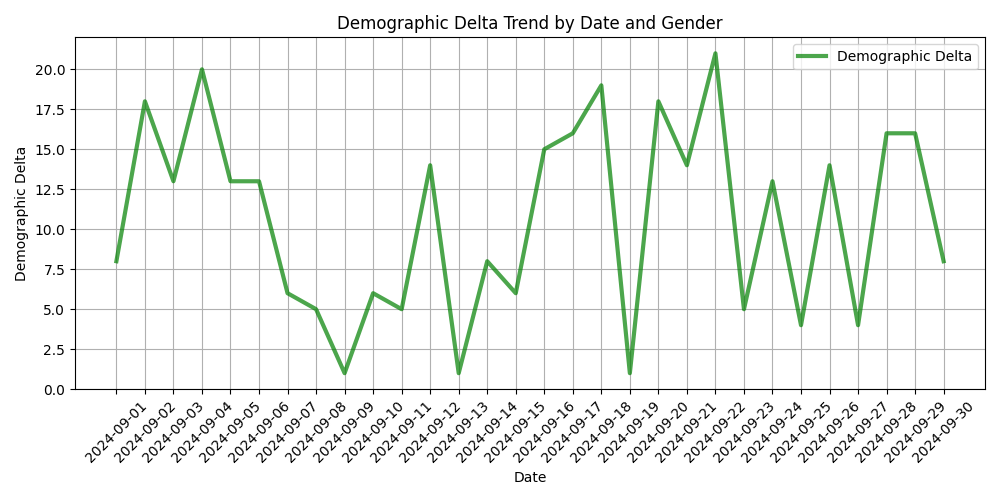
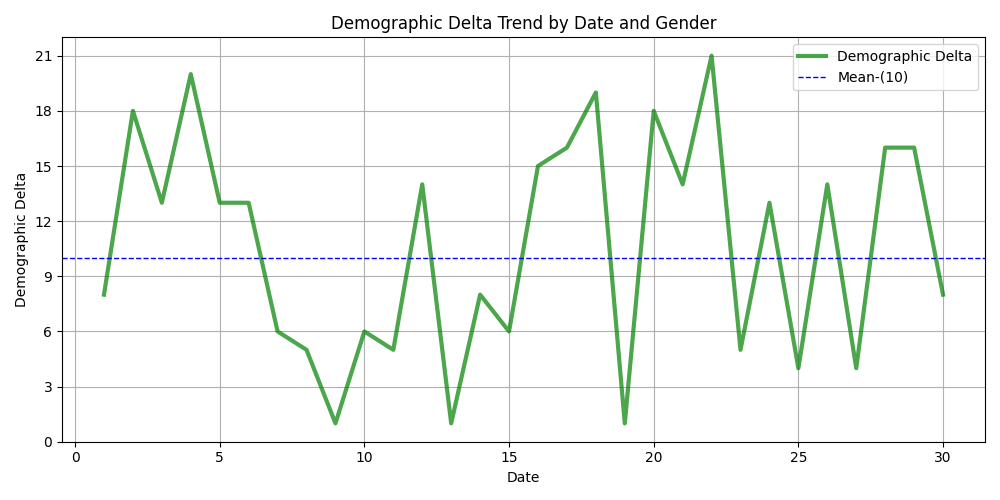
Added about page, some tweaks in graphs

diff --git a/client/templates/Client/about.html b/client/templates/Client/about.html
@@ -1,0 +1,75 @@
+{% extends 'Client/base.html' %}
+{% block title %}Tracking Talent AI Effectiveness{% endblock %}
+{% block style %}
+    <style>
+        body {
+            font-family: Arial, sans-serif;
+            background-color: whitesmoke;
+            padding: 20px;
+            line-height: 1.6;
+        }
+        h1, h2 {
+            font-weight: bold;
+        }
+        .section {
+            margin-top: 20px;
+        }
+        .icon-text {
+            display: flex;
+            align-items: center;
+            margin-top: 10px;
+        }
+        .icon {
+            font-size: 24px;
+            margin-right: 10px;
+        }
+        ul {
+            list-style-type: disc;
+            margin-left: 40px;
+        }
+    </style>
+{% endblock %}
+
+{% block content %}
+    <h1>Tracking Talent AI Effectiveness: Why now?</h1>
+
+    <p>With the increasing adoption of AI across enterprise use-cases, end-users have an urgent need to meaningfully assess the effectiveness of the enterprise Machine Learning models.</p>
+    
+    <p>Effectively measuring the accuracy and precision of AI products is critical to ensure the <strong>Reliability</strong>, <strong>Scalability</strong>, and <strong>Safety</strong> of Enterprise AI initiatives.</p>
+    
+    <p>This assessment helps uncover model performance issues, optimize resource use, and ensure compliance with regulatory standards, all while minimizing operational risks.</p>
+
+    <div class="section">
+        <div class="icon-text">
+            <span class="icon">🔒</span>
+            <h2>Reliability</h2>
+        </div>
+        <ul>
+            <li>It is imperative for Enterprise AI Systems to be consistent in their insights.</li>
+            <li>hrness.ai tracks model performance overtime and provides proactive alerts when the model is beginning to decay.</li>
+        </ul>
+    </div>
+
+    <div class="section">
+        <div class="icon-text">
+            <span class="icon">🔄</span>
+            <h2>Scalability</h2>
+        </div>
+        <ul>
+            <li>In addition to high level metrics, hrness.ai provides Drill Down metrics indicative of the specific parameters.</li>
+            <li>These metrics help organizations expedite Root Cause Analysis and prepare for scale.</li>
+        </ul>
+    </div>
+
+    <div class="section">
+        <div class="icon-text">
+            <span class="icon">🛡</span>
+            <h2>Safety</h2>
+        </div>
+        <ul>
+            <li>In addition to operational metrics like Accuracy, it is critical to measure Bias & Unfairness - arising out of a sub-optimal training process.</li>
+            <li>By reporting these metrics, hrness.ai helps enterprise leaders pre-emptively identify modelling issues adversely affecting specific groups.</li>
+        </ul>
+    </div>
+
+{% endblock %}

diff --git a/client/templates/Client/modelInclusivity.html b/client/templates/Client/modelInclusivity.html
@@ -1,11 +1,11 @@
 {% extends 'Client/report_base.html' %}
 {% load custom_filters %}
-{% block title %}Fairness and Bias{% endblock %}
+{% block title %}Model Inclusivity{% endblock %}
 {% block content %}
 <div class="container mt-5">
     <!-- Page Heading -->
     <div class="text-center mb-4">
-        <h1 class="display-4 font-weight-bold">Fairness and Bias</h1>
+        <h1 class="display-4 font-weight-bold">Model Inclusivity</h1>
     </div>
 
     <div class="alert alert-info" role="alert">
@@ -44,6 +44,12 @@
         should not be any).
         2. Check for unbalanced data corresponding to these features in the
         training data
+    </div>
+
+    <div class="alert alert-success" role="alert">
+        Among Men and Women, the higher rejection ratio was experienced by <strong>{{higher_dp_gender}}</strong> which was <strong>{{gender_dp_value}}%</strong> <br>
+        Among all locations, the higher rejection ratio was experienced by <strong>{{higher_dp_location}}</strong> which was <strong>{{location_dp_value}}%</strong> <br>
+        Week on week, there has been an actual <strong>{% if dp_diff > 0 %}increase{% else %}decrease{% endif %}</strong> of <strong>{{dp_diff|abs_filter}}%</strong> in gender demographic disparity
     </div>
 
 </div>

diff --git a/client/templates/Client/base.html b/client/templates/Client/base.html
@@ -17,7 +17,7 @@
     <nav class="navbar navbar-expand-lg navbar-dark bg-dark">
         <div class="container-fluid">
             <!-- Logo -->
-            <a class="navbar-brand" href="#">
+            <a class="navbar-brand" href="/">
                 <!-- <img src="logo.png" alt="Logo" width="30" height="24" class="d-inline-block align-text-top"> -->
                 hrness.ai
             </a>
@@ -36,9 +36,9 @@
                     <li class="nav-item">
                         <a class="nav-link {% if request.path == '/about/' %}active{% endif %}" href="/about/">About</a>
                     </li>
-                    <li class="nav-item">
+                    <!-- <li class="nav-item">
                         <a class="nav-link {% if request.path == '/help/' %}active{% endif %}" href="/help/">Help</a>
-                    </li>
+                    </li> -->
                     <li class="nav-item">
                         <form action="{% url 'Client:logout' %}" method="post" class="d-inline">
                             {% csrf_token %}

diff --git a/client/templates/Client/overallAccuracy.html b/client/templates/Client/overallAccuracy.html
@@ -81,8 +81,15 @@
         </div>
 
         <div class="alert alert-info" role="alert">
-            <b><h4>Interpretation:</h4></b> 
-            This shows how accurately the model is classifying whether a candidate is genuine or suspect. 
+            <b><h4>Interpretation:</h4></b>
+            <br>
+            This is a good starting point to start tracking the model effectiveness and
+            can be easily used by leadership to check if the model is decaying or if
+            there is an issue with the data in any speci c Location, Gender or Age
+            Group. <br><br>
+            Based on the above observation - the organization will need to ag this
+            data to the AI Service provider who will need to do a feature-level drill
+            down of the model to see why the model performance is slipping.
         </div>
         
         <div class="alert alert-{% if dates_with_low_accuracy %}warning{% else %}success{%endif%}" role="alert">

diff --git a/client/templates/Client/report_base.html b/client/templates/Client/report_base.html
@@ -34,9 +34,9 @@
                 {% csrf_token %}
                 <input type="submit" value="Model Accuracy" class="btn btn-dark">
             </form>
-            <form action="{% url 'Client:fairnessAndBias' %}" method="post" class="d-grid mb-2">
+            <form action="{% url 'Client:modelInclusivity' %}" method="post" class="d-grid mb-2">
                 {% csrf_token %}
-                <input type="submit" value="Fairness and Bias" class="btn btn-dark">
+                <input type="submit" value="Model Inclusivity" class="btn btn-dark">
             </form>
         </div>
     </div>

diff --git a/client/views.py b/client/views.py
@@ -5,7 +5,7 @@ from .models import Client, ClientUser
 from django.contrib.auth.decorators import login_required
 from django.contrib.auth import authenticate, login
 from django.shortcuts import redirect
-from .utils import generateDateWisePivot, generateLocationWisePivot, generateGenderWisePivot, findAccuracy, findTotal, findTNR
+from .utils import generateDateWisePivot, generateLocationWisePivot, generateGenderWisePivot, findAccuracy, findTotal, findTNR, findDemographicParity
 import matplotlib
 import matplotlib.pyplot as plt
 matplotlib.use("Agg") 
@@ -41,6 +41,9 @@ def overallAccuracyView(request):
         client_id = user.client.id
         engagement_id = request.POST.get('engagement_id')
 
+        if engagement_id is None:
+            engagement_id = request.session.get('engagement_id')
+
         request.session['engagement_id'] = engagement_id
 
         dateWisePivot = generateDateWisePivot(result_table_name = f'Result-{client_id}-{engagement_id}')
@@ -72,19 +75,20 @@ def overallAccuracyView(request):
         overall_accuracy = findAccuracy(overall_count)
         print(overall_accuracy)
 
-        dates = [date.day for date in dateWisePivot]
+        dates = [date for date in dateWisePivot]
+        graph_dates = [date.day for date in dateWisePivot]
 
         accuracies_mean = mean(accuracies)
         lower_limit = 40
         
         plt.figure(figsize=(10, 5))
 
-        plt.plot(dates, accuracies, label='Accuracy', color='blue', linestyle='-', linewidth=3, alpha=0.7)
+        plt.plot(graph_dates, accuracies, label='Accuracy', color='blue', linestyle='-', linewidth=3, alpha=0.7)
 
         dates_with_low_accuracy = []
         for date, accuracy in zip(dates, accuracies):
             if accuracy < lower_limit:
-                plt.plot(date, accuracy, 'ro')
+                plt.plot(date.day, accuracy, 'ro')
                 dates_with_low_accuracy.append(date)
 
         print(type(on_date))
@@ -121,6 +125,7 @@ def modelAccuracyView(request):
             location_table[city] = {'RPN':locationWisePivot[city]['Risk Priority Number']}
 
         dates = [date for date in dateWisePivot]
+        graph_dates = [date.day for date in dates]
 
         total_tn, total_fp = 0, 0
         for date in dates:
@@ -138,26 +143,23 @@ def modelAccuracyView(request):
         usl, lsl = tnr_mean + (2 * tnr_std), tnr_mean - (2 * tnr_std)
 
         plt.figure(figsize=(10, 5))
-        plt.plot(dates, tnr_men, label='Men', color='blue', linestyle='-', alpha=0.7)
-        plt.plot(dates, tnr_women, label='Women', color='red', linestyle='-', alpha=0.7)
-        tnr_outliers_male = []
+        plt.plot(graph_dates, tnr_men, label='Men', color='blue', linestyle='-', alpha=0.7)
+        plt.plot(graph_dates, tnr_women, label='Women', color='red', linestyle='-', alpha=0.7)
+        
         for date, tnr in zip(dates, tnr_men):
             if tnr < lsl or tnr > usl:
-                plt.plot(date, tnr, 'bo')
-                tnr_outliers_male.append(date)
+                plt.plot(date.day, tnr, 'bo')
 
-        tnr_outliers_female = []
         for date, tnr in zip(dates, tnr_women):
             if tnr < lsl or tnr > usl:
-                plt.plot(date, tnr, 'ro')
-                tnr_outliers_female.append(date)
+                plt.plot(date.day, tnr, 'ro')
+
         plt.xlabel('Date')
         plt.ylabel('Specificity')
         plt.title('Specificity Trend by Date and Gender')
         plt.grid(True)
         plt.axhline(y=usl, color="r", linestyle="--", linewidth=1, label=f"Upper Limit ({usl})")
         plt.axhline(y=lsl, color="g", linestyle="--", linewidth=1, label=f"Lower Limit ({lsl})")
-        plt.xticks(rotation=45)
         plt.tight_layout()
         plt.legend()
 
@@ -168,20 +170,40 @@ def modelAccuracyView(request):
         return render(request, 'Client/modelAccuracy.html', {'overall_tnr':overall_tnr, "graph":'media/dateGenderSpecifictyGraph.png', 'on_date':dates[-1], 'location_table':location_table})
     return Http404()
 
-def fairnessView(request):
+def modelInclusivityView(request):
     if request.method == "POST":
         user = request.user
         client_id = user.client.id
         engagement_id = request.session.get('engagement_id')
         genderWisePivot = generateGenderWisePivot(client_table_name = f'Client Data-{client_id}-{engagement_id}', result_table_name = f'Result-{client_id}-{engagement_id}', primary_key = 'Candidate ID')
-        dates = [date for date in genderWisePivot['Male']]
-        dpd = [abs(genderWisePivot['Male'][date]['Demographic Parity'] - genderWisePivot['Female'][date]['Demographic Parity']) for date in dates]
+        locationWisePivot = generateLocationWisePivot(client_table_name = f'Client Data-{client_id}-{engagement_id}', result_table_name = f'Result-{client_id}-{engagement_id}', primary_key = 'Candidate ID')
+        location_wise_dp = [(findDemographicParity(locationWisePivot[location]), location) for location in locationWisePivot]
 
+        higher_dp_location = max(location_wise_dp, key=lambda x : x[0])
+
+        dates = [date for date in genderWisePivot['Male']]
+
+        genderwise_total_obs = {'Male':{'True Positive':0, 'True Negative':0, 'False Positive':0, 'False Negative':0}, 'Female':{'True Positive':0, 'True Negative':0, 'False Positive':0, 'False Negative':0}}
+        dpd = []
+
+        for date in dates:
+            dpd.append(abs(genderWisePivot['Male'][date]['Demographic Parity'] - genderWisePivot['Female'][date]['Demographic Parity']))
+            for gender in genderwise_total_obs:
+                for obs in genderwise_total_obs[gender]:
+                    genderwise_total_obs[gender][obs] += genderWisePivot[gender][date][obs]
+        
+        gender_dp = [(findDemographicParity(genderwise_total_obs[gender]), gender) for gender in genderwise_total_obs]
+        higher_dp_gender = max(gender_dp, key = lambda x : x[0])
+
+        dp_diff = dpd[-1] - dpd[-8]
+        dpd_mean = int(mean(dpd))
+            
         plt.figure(figsize=(10, 5))
-        plt.plot(dates, dpd, label='Demographic Delta', color='green', linestyle='-',linewidth=3, alpha=0.7)
-        plt.xticks(rotation=45)
+        plt.plot([date.day for date in dates], dpd, label='Demographic Delta', color='green', linestyle='-',linewidth=3, alpha=0.7)
+        plt.gca().yaxis.set_major_locator(plt.MaxNLocator(integer=True))
         plt.xlabel('Date')
         plt.ylabel('Demographic Delta')
+        plt.axhline(y=dpd_mean, color="b", linestyle="--", linewidth=1, label=f"Mean-({dpd_mean})")
         plt.title('Demographic Delta Trend by Date and Gender')
         plt.tight_layout()
         plt.legend()
@@ -192,9 +214,12 @@ def fairnessView(request):
         plt.savefig(file_path, format="png", dpi=100)
         plt.close()
 
-        return render(request, 'Client/fairness.html', {'graph':'media/dateGenderDemographicDeltaGraph.png'})
+        return render(request, 'Client/modelInclusivity.html', {'graph':'media/dateGenderDemographicDeltaGraph.png', 'higher_dp_location':higher_dp_location[1], 'location_dp_value':higher_dp_location[0], 'higher_dp_gender':higher_dp_gender[1], 'gender_dp_value':higher_dp_gender[0], 'dp_diff':dp_diff })
     return Http404()
 
+
+def aboutView(request):
+    return render(request, 'Client/about.html')
 
 class ClientLogoutView(LogoutView):
     next_page = reverse_lazy('Client:home')

diff --git a/client/urls.py b/client/urls.py
@@ -9,5 +9,6 @@ urlpatterns = [
     path('logout', views.ClientLogoutView.as_view(), name = 'logout'),
     path('Overall Accuracy', views.overallAccuracyView, name = 'overallAccuracy'),
     path('Model Accuracy', views.modelAccuracyView, name = 'modelAccuracy'),
-    path('Fairness and Bias', views.fairnessView, name = 'fairnessAndBias'),
+    path('Model Inclusivity', views.modelInclusivityView, name = 'modelInclusivity'),
+    path('about/', views.aboutView, name='about'),
 ]

diff --git a/client/templatetags/custom_filters.py b/client/templatetags/custom_filters.py
@@ -11,3 +11,7 @@ def get_item(dc, key):
 @register.filter(name='split')
 def split(objs):
     return objs.split(',')
+
+@register.filter(name='abs_filter')
+def abs_filter(obj):
+    return abs(obj)
